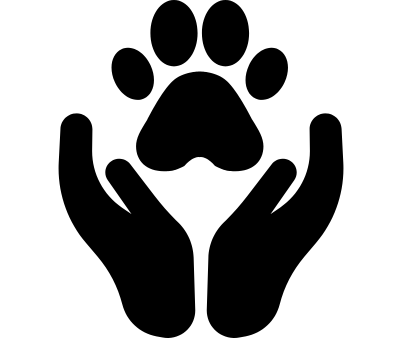
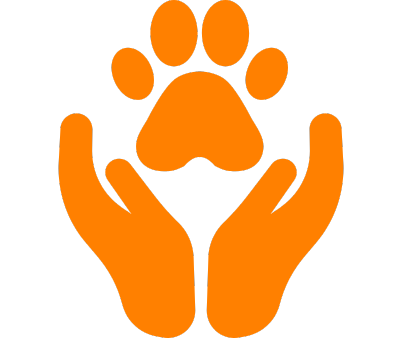
sign-up splash image update --J

diff --git a/app/sign-in.tsx b/app/sign-in.tsx
@@ -47,7 +47,7 @@ if(!loading && isLoggedIn) return <Redirect href="/" />
             </View>
           </TouchableOpacity>
 
-          <Text className="font-nunito-light text-base text-center mt-10">© 2025 Joe Aguado | NT Solutions</Text>
+          <Text className="font-nunito-light text-base text-center mt-12">© 2025 Joe Aguado | NT Solutions</Text>
         </View>
       </ScrollView>
     </View>
